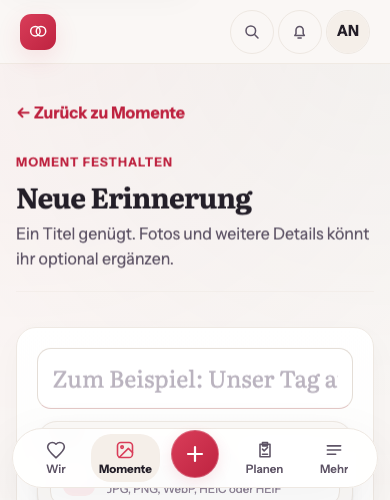
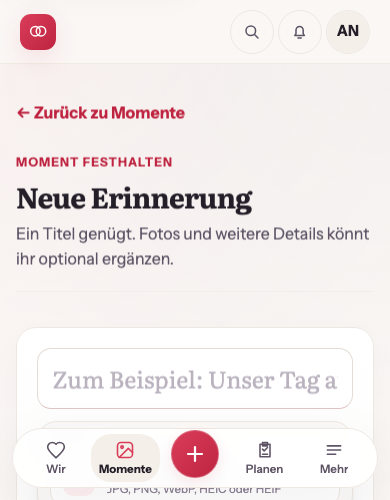
style(web): refine Quick Create sheet into floating rounded panel (#882)

Changed region(s): [[0.1231, 0.75, 0.5231, 0.78], [0.5538, 0.75, 0.7077, 0.78], [0.7385, 0.75, 0.8615, 0.78]]

diff --git a/web/e2e/tests/floating-bottom-nav.spec.ts b/web/e2e/tests/floating-bottom-nav.spec.ts
@@ -305,7 +305,7 @@ test.describe('Floating Bottom Navigation (#882)', () => {
     await expectNoHorizontalOverflow(page);
   });
 
-  test('Quick Create mobile sheet opens from center action with proper layer stacking', async ({
+  test('Quick Create mobile floating panel opens with fully rounded corners, clear nav separation and accessibility', async ({
     page,
   }) => {
     await page.setViewportSize({ width: 390, height: 844 });
@@ -331,6 +331,34 @@ test.describe('Floating Bottom Navigation (#882)', () => {
       .locator('.mobile-bottom-shell')
       .evaluate((el) => Number.parseInt(getComputedStyle(el).zIndex, 10));
     expect(sheetZ).toBeGreaterThan(navZ);
+
+    // Fully rounded floating panel geometry: both top and bottom corners are rounded
+    const radii = await dialog.evaluate((el) => {
+      const cs = getComputedStyle(el);
+      return {
+        topLeft: Number.parseFloat(cs.borderTopLeftRadius),
+        topRight: Number.parseFloat(cs.borderTopRightRadius),
+        bottomLeft: Number.parseFloat(cs.borderBottomLeftRadius),
+        bottomRight: Number.parseFloat(cs.borderBottomRightRadius),
+      };
+    });
+    expect(radii.topLeft).toBeGreaterThanOrEqual(16);
+    expect(radii.topRight).toBeGreaterThanOrEqual(16);
+    expect(radii.bottomLeft).toBeGreaterThanOrEqual(16);
+    expect(radii.bottomRight).toBeGreaterThanOrEqual(16);
+
+    // Horizontal insets: panel does not stretch to viewport edges
+    const sheetBox = await dialog.boundingBox();
+    const navBox = await page.locator('.mobile-bottom-shell').boundingBox();
+    expect(sheetBox).not.toBeNull();
+    expect(navBox).not.toBeNull();
+    if (!sheetBox || !navBox) throw new Error('Missing bounding boxes');
+
+    expect(sheetBox.x).toBeGreaterThan(0);
+    expect(sheetBox.x + sheetBox.width).toBeLessThan(390);
+
+    // Clear visual separation from floating bottom navigation (no clipping, no collision)
+    expect(navBox.y - (sheetBox.y + sheetBox.height)).toBeGreaterThanOrEqual(8);
 
     // All 7 authoritative actions present inside dialog
     await expect(
@@ -358,13 +386,107 @@ test.describe('Floating Bottom Navigation (#882)', () => {
       dialog.getByText(navigation.quickCreateGiftIdea, { exact: true }),
     ).toBeVisible();
 
-    // Capture sheet open evidence
+    // Accessibility: axe clean on open floating Quick Create panel in Light mode
+    const axeResultsLight = await new AxeBuilder({ page })
+      .include('.quick-create-mobile-sheet')
+      .analyze();
+    expect(axeResultsLight.violations).toEqual([]);
+
+    // Capture sheet open evidence (Light mode)
     await page.screenshot({
       path: path.join(EVIDENCE_DIR, '00-quick-create-sheet-open-390.png'),
     });
 
+    // Dark mode verification and evidence
+    await page.evaluate(() => {
+      document.documentElement.setAttribute('data-theme', 'dark');
+      document.documentElement.style.colorScheme = 'dark';
+    });
+    // Allow CSS theme color transitions to settle before running axe
+    await page.waitForTimeout(250);
+    const axeResultsDark = await new AxeBuilder({ page })
+      .include('.quick-create-mobile-sheet')
+      .analyze();
+    expect(axeResultsDark.violations).toEqual([]);
+
+    await page.screenshot({
+      path: path.join(EVIDENCE_DIR, '00-quick-create-sheet-open-390-dark.png'),
+    });
+
+    // Restore Light mode for subsequent assertions
+    await page.evaluate(() => {
+      document.documentElement.setAttribute('data-theme', 'light');
+      document.documentElement.style.colorScheme = 'light';
+    });
+
     // Dismiss via Escape
     await page.keyboard.press('Escape');
+    await expect(dialog).toHaveCount(0);
+  });
+
+  test('Quick Create floating panel in constrained height and 320px reflow maintains reachability and separation', async ({
+    page,
+  }) => {
+    await installApiMocks(page);
+
+    // 1. Constrained height (390x500)
+    await page.setViewportSize({ width: 390, height: 500 });
+    await page.goto('/login');
+    await signIn(page);
+    await page.waitForURL('**/today');
+
+    const trigger = page.locator('.mobile-bottom-shell .quick-create-trigger');
+    await trigger.click();
+
+    const dialog = page.getByRole('dialog', {
+      name: navigation.quickCreateTitle,
+    });
+    await expect(dialog).toBeVisible();
+
+    // Verify dialog does not overflow top or bottom of viewport
+    const smallSheetBox = await dialog.boundingBox();
+    const smallNavBox = await page
+      .locator('.mobile-bottom-shell')
+      .boundingBox();
+    expect(smallSheetBox).not.toBeNull();
+    expect(smallNavBox).not.toBeNull();
+    if (!smallSheetBox || !smallNavBox)
+      throw new Error('Missing bounding boxes');
+
+    expect(smallSheetBox.y).toBeGreaterThanOrEqual(0);
+    expect(
+      smallNavBox.y - (smallSheetBox.y + smallSheetBox.height),
+    ).toBeGreaterThanOrEqual(8);
+
+    // Verify reachability: scroll to the lowest item (Gift Idea) and verify it is visible and clickable
+    const giftIdeaItem = dialog.getByText(navigation.quickCreateGiftIdea, {
+      exact: true,
+    });
+    await giftIdeaItem.scrollIntoViewIfNeeded();
+    await expect(giftIdeaItem).toBeVisible();
+
+    // Close via close button
+    const closeButton = dialog.getByRole('button', {
+      name: navigation.closeMenu,
+    });
+    await closeButton.click();
+    await expect(dialog).toHaveCount(0);
+
+    // 2. 320px reflow
+    await page.setViewportSize({ width: 320, height: 600 });
+    await trigger.click();
+    await expect(dialog).toBeVisible();
+
+    await expectNoHorizontalOverflow(page);
+    const reflowSheetBox = await dialog.boundingBox();
+    expect(reflowSheetBox).not.toBeNull();
+    if (!reflowSheetBox) throw new Error('Missing bounding boxes');
+    expect(reflowSheetBox.x).toBeGreaterThan(0);
+    expect(reflowSheetBox.x + reflowSheetBox.width).toBeLessThanOrEqual(320);
+
+    // Dismiss via backdrop click
+    const backdrop = page.locator('.quick-create-mobile-backdrop');
+    await backdrop.click({ position: { x: 10, y: 10 } });
     await expect(dialog).toHaveCount(0);
   });
 

diff --git a/web/src/components/QuickCreateMenu.tsx b/web/src/components/QuickCreateMenu.tsx
@@ -7,6 +7,7 @@ import {
   useRef,
   useState,
 } from 'react';
+import { createPortal } from 'react-dom';
 import { Link } from 'react-router-dom';
 import { PRIVATE_GIFT_IDEAS_PATH } from '../client/privateArea';
 import {
@@ -354,54 +355,57 @@ export function QuickCreateMenu({ variant = 'desktop' }: QuickCreateMenuProps) {
       ) : null}
 
       {/* Mobile Responsive Action Sheet */}
-      {isMobile && open ? (
-        <div className="quick-create-mobile-portal">
-          <div
-            className="quick-create-mobile-backdrop"
-            onClick={closeMenu}
-            aria-hidden="true"
-          />
-          <div
-            ref={sheetRef}
-            id={menuId}
-            className="quick-create-mobile-sheet sbs-motion-reveal"
-            role="dialog"
-            aria-modal="true"
-            aria-label={t('navigation.quickCreateTitle')}
-            onTouchStart={handleTouchStart}
-            onTouchEnd={handleTouchEnd}
-          >
-            <div className="quick-create-sheet-header">
-              <h2 className="quick-create-sheet-title">
-                {t('navigation.quickCreateTitle')}
-              </h2>
-              <button
-                ref={firstFocusableRef}
-                type="button"
-                className="quick-create-sheet-close"
+      {isMobile && open && typeof document !== 'undefined'
+        ? createPortal(
+            <div className="quick-create-mobile-portal">
+              <div
+                className="quick-create-mobile-backdrop"
                 onClick={closeMenu}
-                aria-label={t('navigation.closeMenu')}
+                aria-hidden="true"
+              />
+              <div
+                ref={sheetRef}
+                id={menuId}
+                className="quick-create-mobile-sheet sbs-motion-reveal"
+                role="dialog"
+                aria-modal="true"
+                aria-label={t('navigation.quickCreateTitle')}
+                onTouchStart={handleTouchStart}
+                onTouchEnd={handleTouchEnd}
               >
-                ✕
-              </button>
-            </div>
+                <div className="quick-create-sheet-header">
+                  <h2 className="quick-create-sheet-title">
+                    {t('navigation.quickCreateTitle')}
+                  </h2>
+                  <button
+                    ref={firstFocusableRef}
+                    type="button"
+                    className="quick-create-sheet-close"
+                    onClick={closeMenu}
+                    aria-label={t('navigation.closeMenu')}
+                  >
+                    ✕
+                  </button>
+                </div>
 
-            <div className="quick-create-sheet-scrollable">
-              <div className="quick-create-mobile-list">
-                {SHARED_TARGETS.map(renderMobileTarget)}
-              </div>
+                <div className="quick-create-sheet-scrollable">
+                  <div className="quick-create-mobile-list">
+                    {SHARED_TARGETS.map(renderMobileTarget)}
+                  </div>
 
-              <hr className="quick-create-separator" />
-              <div className="quick-create-group-label quick-create-for-me-label">
-                {t('navigation.quickCreateForMe')}
+                  <hr className="quick-create-separator" />
+                  <div className="quick-create-group-label quick-create-for-me-label">
+                    {t('navigation.quickCreateForMe')}
+                  </div>
+                  <div className="quick-create-mobile-list">
+                    {FOR_ME_TARGETS.map(renderMobileTarget)}
+                  </div>
+                </div>
               </div>
-              <div className="quick-create-mobile-list">
-                {FOR_ME_TARGETS.map(renderMobileTarget)}
-              </div>
-            </div>
-          </div>
-        </div>
-      ) : null}
+            </div>,
+            document.body,
+          )
+        : null}
     </div>
   );
 }

diff --git a/web/src/components/QuickCreateMenu.css b/web/src/components/QuickCreateMenu.css
@@ -270,34 +270,45 @@
   position: fixed;
   left: 0;
   right: 0;
-  bottom: 0;
-  width: 100%;
-  max-width: 32rem;
   margin-inline: auto;
-  max-height: 85dvh;
+  bottom: calc(
+    var(--shell-floating-nav-offset) +
+    var(--shell-floating-nav-height) +
+    var(--space-3) +
+    env(safe-area-inset-bottom, 0px)
+  );
+  width: calc(100% - var(--space-6));
+  max-width: 28rem;
+  max-height: calc(
+    100dvh -
+    var(--shell-floating-nav-offset) -
+    var(--shell-floating-nav-height) -
+    var(--space-3) -
+    var(--space-4) -
+    env(safe-area-inset-bottom, 0px) -
+    env(safe-area-inset-top, 0px)
+  );
   background: var(--color-surface-raised);
-  border-top: 1px solid var(--color-brand-glow);
-  border-left: 1px solid var(--color-border-subtle);
-  border-right: 1px solid var(--color-border-subtle);
-  border-top-left-radius: var(--radius-card);
-  border-top-right-radius: var(--radius-card);
-  border-bottom-left-radius: 0;
-  border-bottom-right-radius: 0;
-  box-shadow: 0 -8px 32px rgba(0, 0, 0, 0.35);
+  border: 1px solid var(--color-brand-glow);
+  border-radius: var(--radius-card);
+  box-shadow: var(--shadow-card);
   z-index: 100;
   pointer-events: auto;
   display: flex;
   flex-direction: column;
   overflow: hidden;
-  animation: slideUp var(--motion-duration-short) cubic-bezier(0.16, 1, 0.3, 1);
+  animation: floatPanelIn var(--motion-duration-short)
+    cubic-bezier(0.16, 1, 0.3, 1);
 }
 
-@keyframes slideUp {
+@keyframes floatPanelIn {
   from {
-    transform: translateY(100%);
+    opacity: 0;
+    transform: translateY(12px) scale(0.98);
   }
   to {
-    transform: translateY(0);
+    opacity: 1;
+    transform: translateY(0) scale(1);
   }
 }
 
@@ -308,6 +319,9 @@
   padding: var(--space-3) var(--space-4);
   border-bottom: 1px solid var(--color-border-subtle);
   background: var(--color-surface);
+  border-top-left-radius: inherit;
+  border-top-right-radius: inherit;
+  flex-shrink: 0;
 }
 
 .quick-create-sheet-title {
@@ -341,12 +355,12 @@
 }
 
 .quick-create-sheet-scrollable {
-  padding: var(--space-3) var(--space-4)
-    calc(var(--space-6) + env(safe-area-inset-bottom));
+  padding: var(--space-3) var(--space-4) var(--space-4);
   overflow-y: auto;
   overscroll-behavior: contain;
   display: grid;
   gap: var(--space-3);
+  -webkit-overflow-scrolling: touch;
 }
 
 .quick-create-mobile-list {
@@ -450,6 +464,18 @@
     height: 44px;
     min-width: 44px;
     min-height: 44px;
+  }
+
+  .quick-create-mobile-sheet {
+    width: calc(100% - var(--space-3));
+  }
+}
+
+@media (forced-colors: active) {
+  .quick-create-mobile-sheet {
+    background-color: Canvas;
+    border: 1px solid ButtonBorder;
+    box-shadow: none;
   }
 }
 

diff --git a/docs/design/eimir/screenshots/882-floating-nav/README.md b/docs/design/eimir/screenshots/882-floating-nav/README.md
@@ -6,7 +6,8 @@ Rendered visual evidence for the #882 integration of Quick Create into a floatin
 
 | File | Viewport / State | What it shows |
 | :--- | :--- | :--- |
-| [`00-quick-create-sheet-open-390.png`](./00-quick-create-sheet-open-390.png) | 390×844, Light | Quick Create bottom sheet opened via center trigger. Demonstrates layer stacking (`z-index: 100` sheet and `z-index: 95` backdrop over `z-index: 50` floating shell) and the full seven-action taxonomy (Memory, Heart Moment, Milestone, Wish, Plan, Note, and Gift Idea). |
+| [`00-quick-create-sheet-open-390.png`](./00-quick-create-sheet-open-390.png) | 390×844, Light | Quick Create floating panel opened via center trigger. Demonstrates fully rounded floating surface with both top and bottom corners rounded, clear visual separation from the floating bottom navigation, layer stacking (`z-index: 100` panel and `z-index: 95` backdrop over `z-index: 50` floating shell), and the full seven-action taxonomy (Memory, Heart Moment, Milestone, Wish, Plan, Note, and Gift Idea). |
+| [`00-quick-create-sheet-open-390-dark.png`](./00-quick-create-sheet-open-390-dark.png) | 390×844, Dark | Quick Create floating panel in Dark mode. Demonstrates fully rounded floating surface, clear visual separation from the floating bottom navigation, and high-contrast dark theme readability. |
 | [`01-today-390-light.png`](./01-today-390-light.png) | 390×844, Light | Today canonical view with floating bottom navigation. Pill-shaped elevated surface, exactly four primary navigation destinations and center action button. Active state on Today. |
 | [`02-today-390-dark.png`](./02-today-390-dark.png) | 390×844, Dark | Today in Dark mode (`data-theme="dark"`). Pill surface, frosted backdrop, brand glow, and calm active highlight. |
 | [`03-memory-create-390-light.png`](./03-memory-create-390-light.png) | 390×844, Light | Memory Create scrolled to bottom. Save and Cancel actions clear the floating navigation with safe-area padding (`--shell-content-bottom-clearance`). |
